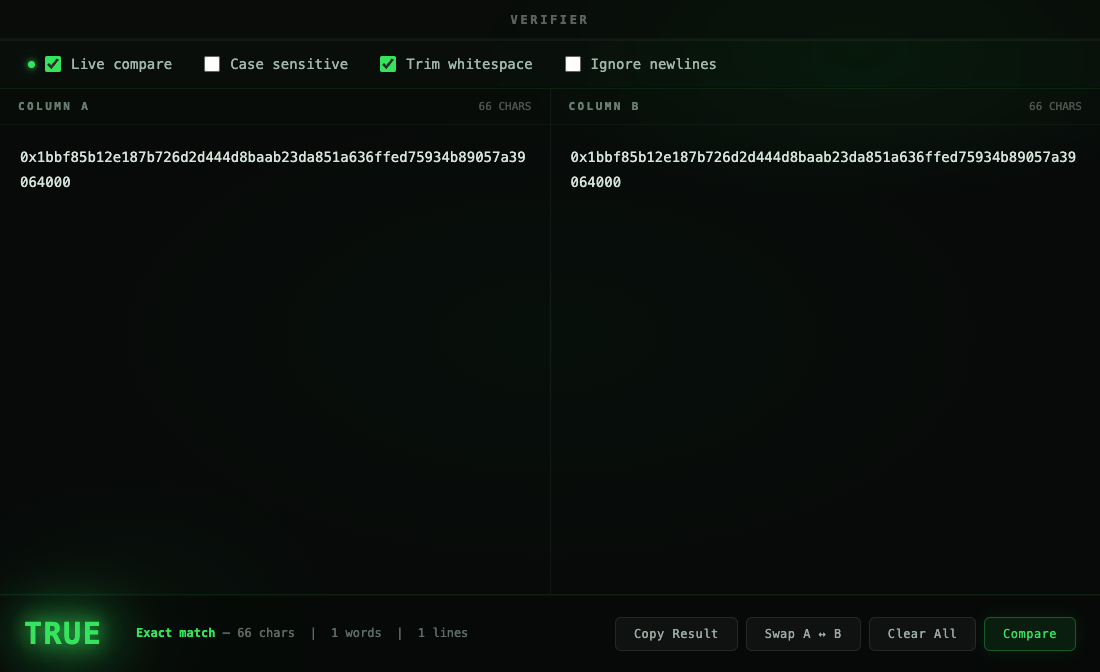
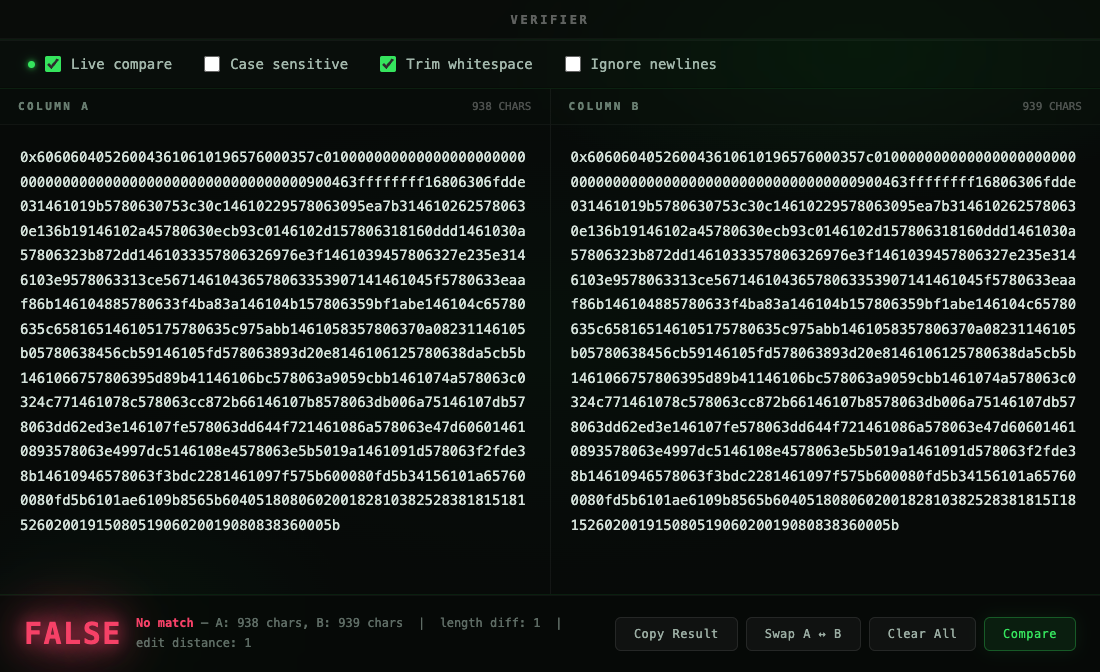
Update image 2 to bytecode FALSE demo with 'Can you tell the difference?' headline

diff --git a/README.md b/README.md
@@ -1,31 +1,19 @@
 <div align="center">
 
-<br>
-
 # Verifier
 
-### A lightweight, instant string comparison tool.
+### A lightweight, instant text string comparison tool.
 ### Paste anything into Column A and Column B — get **TRUE** or **FALSE** in real time.
-
-<br>
 
 *Built for code developers, essay writers, copy bloggers, and anyone who has ever squinted at two lines of text wondering if they are actually identical.*
 
-<br>
-
 ![Verifier – mismatch](readme_images/03-mismatch.png)
 
-<br>
-
 ---
-
-<br>
 
 ## What it's for
 
 </div>
-
-<br>
 
 **Compare hashes at a glance — instantly.**
 Verify transaction hashes, checksums, API keys, wallet addresses, or any token without squinting character by character. Paste both sides and the answer is immediate.
@@ -44,7 +32,11 @@ Paste your draft and your final version to confirm exactly what changed — or t
 
 <div align="center">
 
-![Verifier – match](readme_images/02-match.png)
+### Can you tell the difference?
+
+*Both columns contain 1,000+ characters of EVM bytecode. One character has been changed. Verifier catches it instantly.*
+
+![Verifier – bytecode diff](readme_images/02-match.png)
 
 <br>
 
